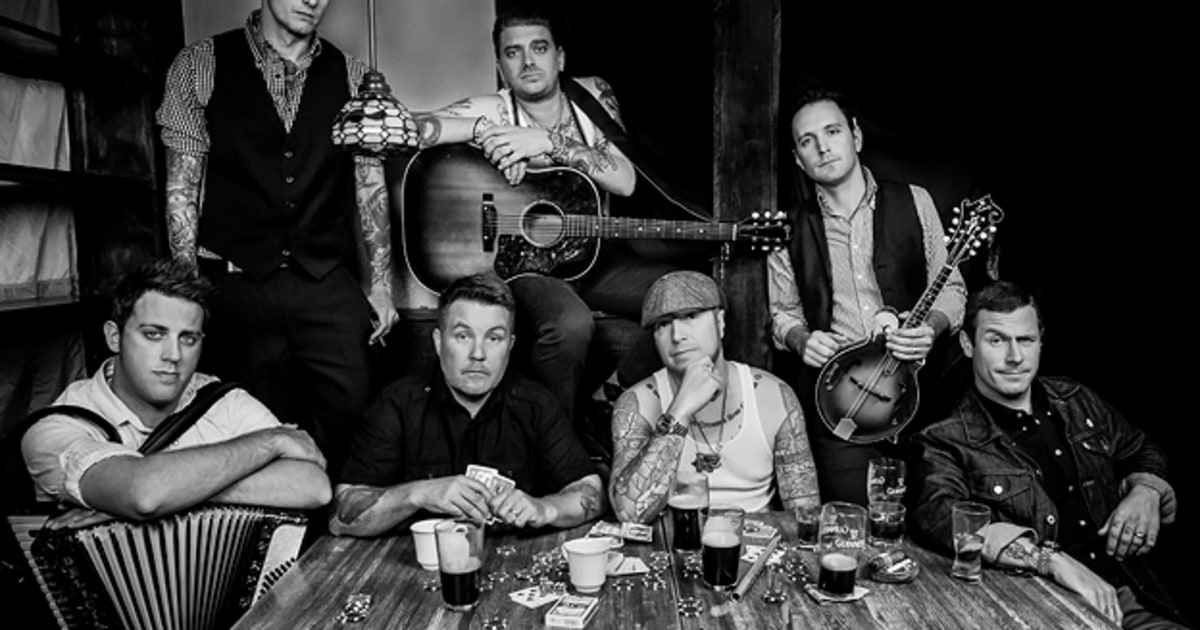
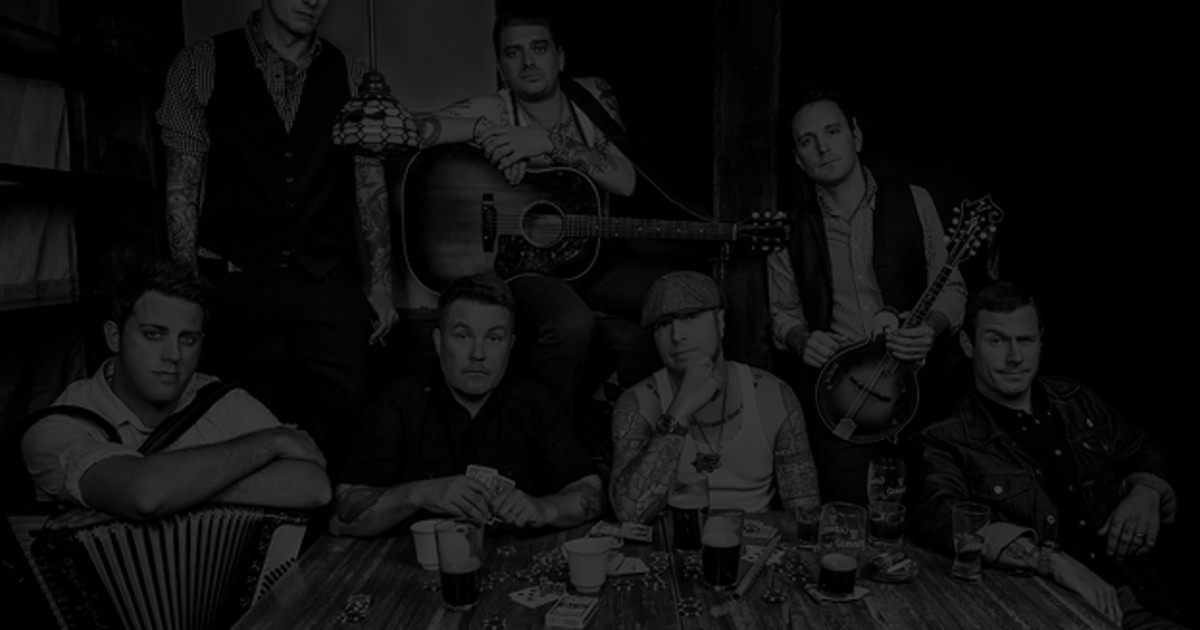
grayscale background, #eee text

diff --git a/index.html b/index.html
@@ -45,7 +45,7 @@
       <section class="container">
         <header>
           <h2>News</h2>
-          <aside>Up-to-the-minute, breaking news. You can't miss them. New album is comming? Your gig is cancelled? Free tickets to V.I.P. Zone? We are here to tell you about it</aside>
+          <aside>Up-to-the-minute, breaking news. You can't miss them. Is new album comming? Was your gig cancelled? Or maybe we have some free tickets to V.I.P. Zone? We are here to tell you about it</aside>
         </header>
         <article>
           <h3>First very interesting article about rock music</h3>

diff --git a/css/main.css b/css/main.css
@@ -48,6 +48,7 @@ nav a:hover {
 
 .container {
   width: 100%;
+  color: #eee;
 }
 
 section {
@@ -61,17 +62,18 @@ section {
 }
 
 .bands {
-  background-image: url(../images/jumboClover.jpg);
-  background-size: cover;
-}
-
-.tours {
   background-image: url(../images/jessenabers.jpg);
   background-size: cover;
 }
 
+.tours {
+  background-image: url(../images/RBBus.jpg);
+  background-size: cover;
+}
+
 .shop {
-  background-color: #222;
+  background-image: url(../images/giftshop.jpg);
+  background-size: cover;
 }
 
 .community {
